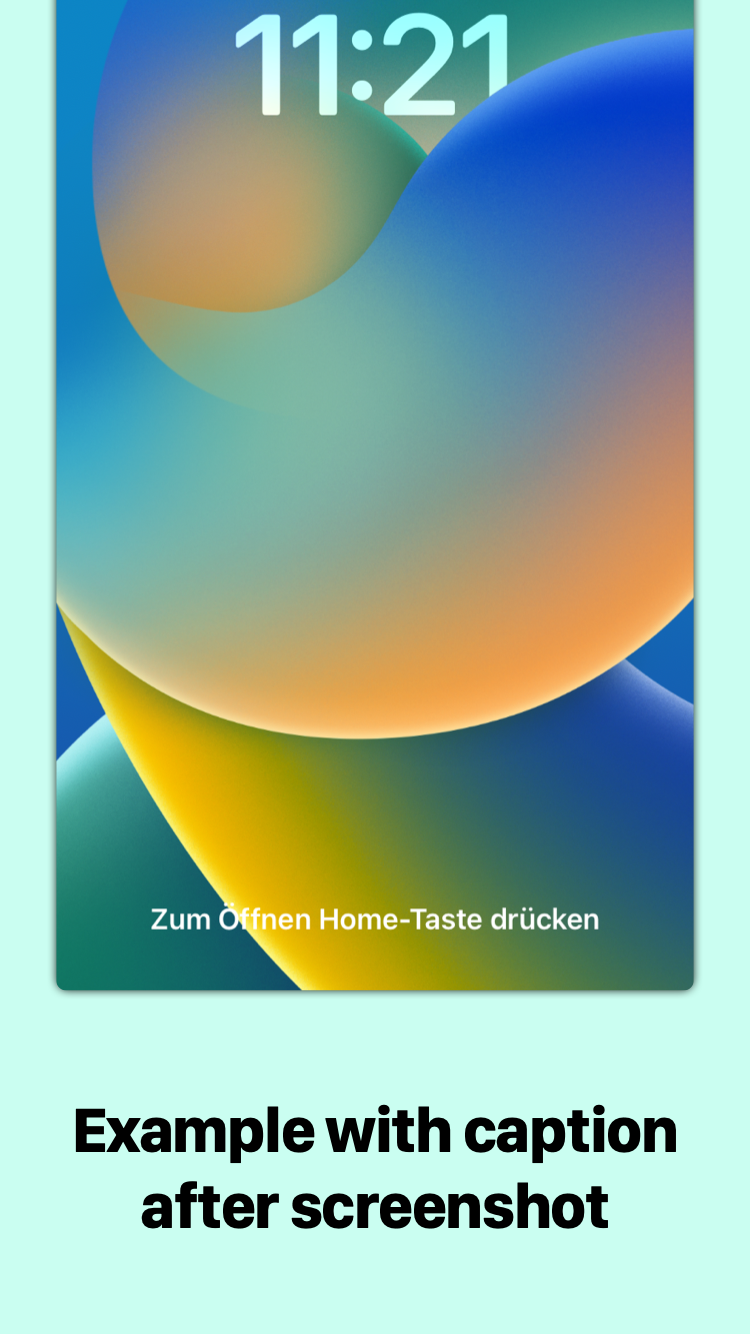
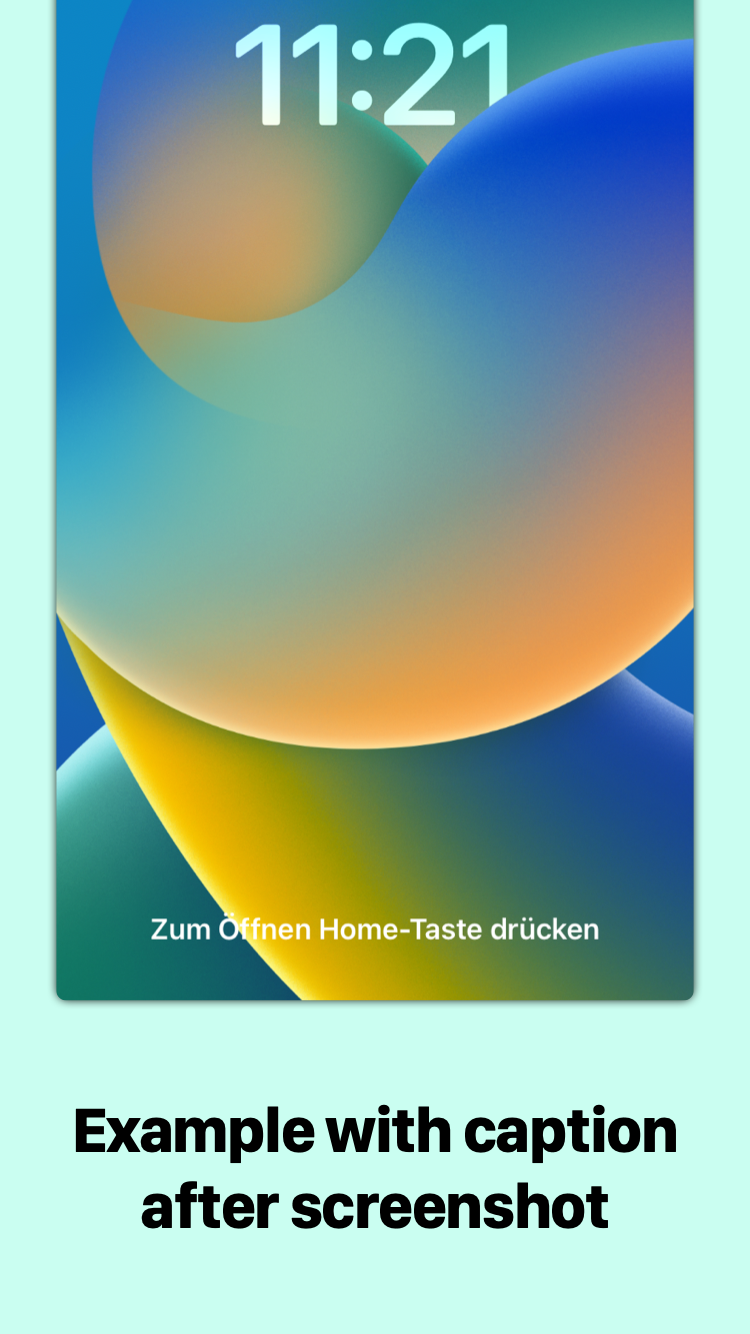
Ignore shadow size when calculating image position

diff --git a/Sources/ScreenshotScribbler/ScreenshotScribbler.swift b/Sources/ScreenshotScribbler/ScreenshotScribbler.swift
@@ -185,9 +185,9 @@ public struct ScreenshotScribbler {
         let imagePosY: CGFloat
         switch verticalAlignment {
         case .top:
-            imagePosY = area.maxY - reducedHeight - shadowSize - borderSize
+            imagePosY = area.maxY - reducedHeight - borderSize
         case .bottom:
-            imagePosY = area.minY + shadowSize + borderSize
+            imagePosY = area.minY + borderSize
         case .middle:
             imagePosY = area.minY + ((area.height - reducedHeight) / 2)
         }
